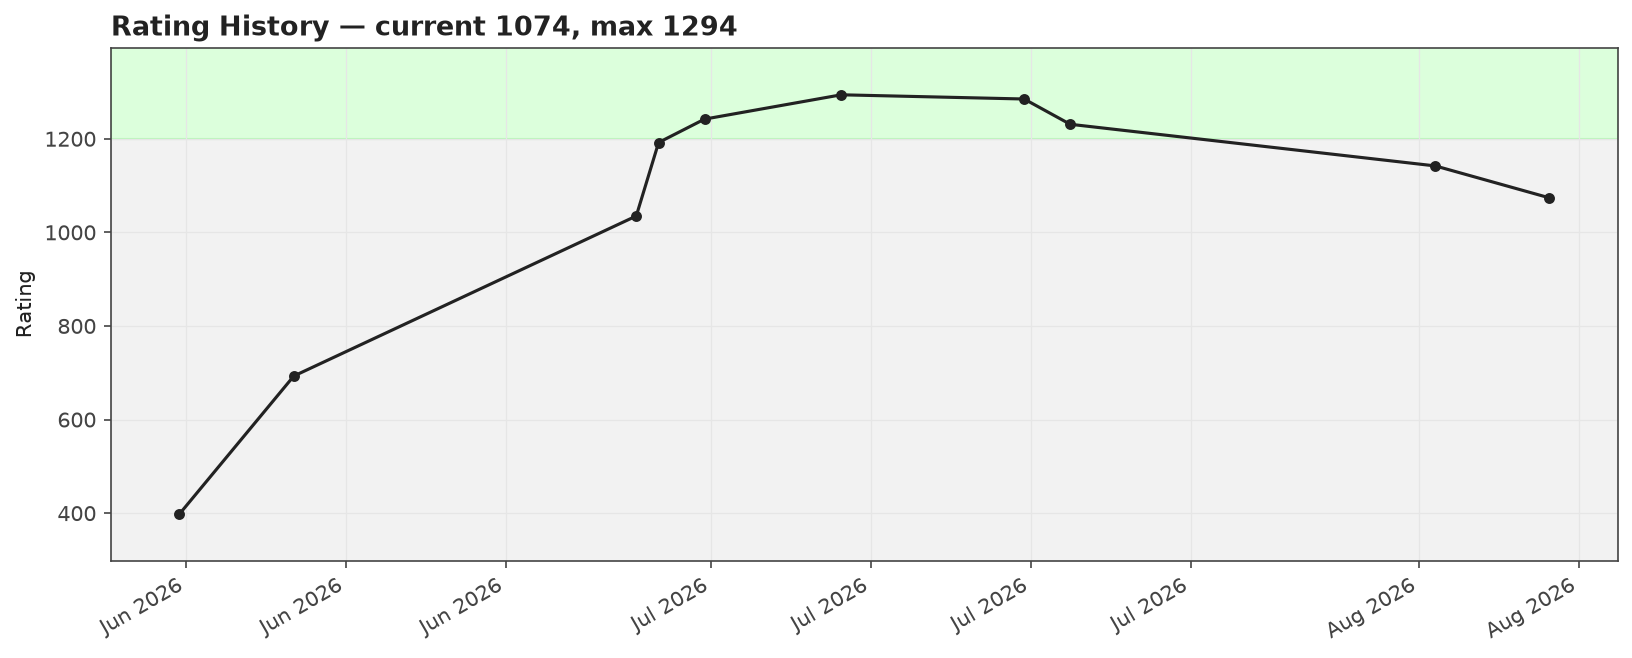
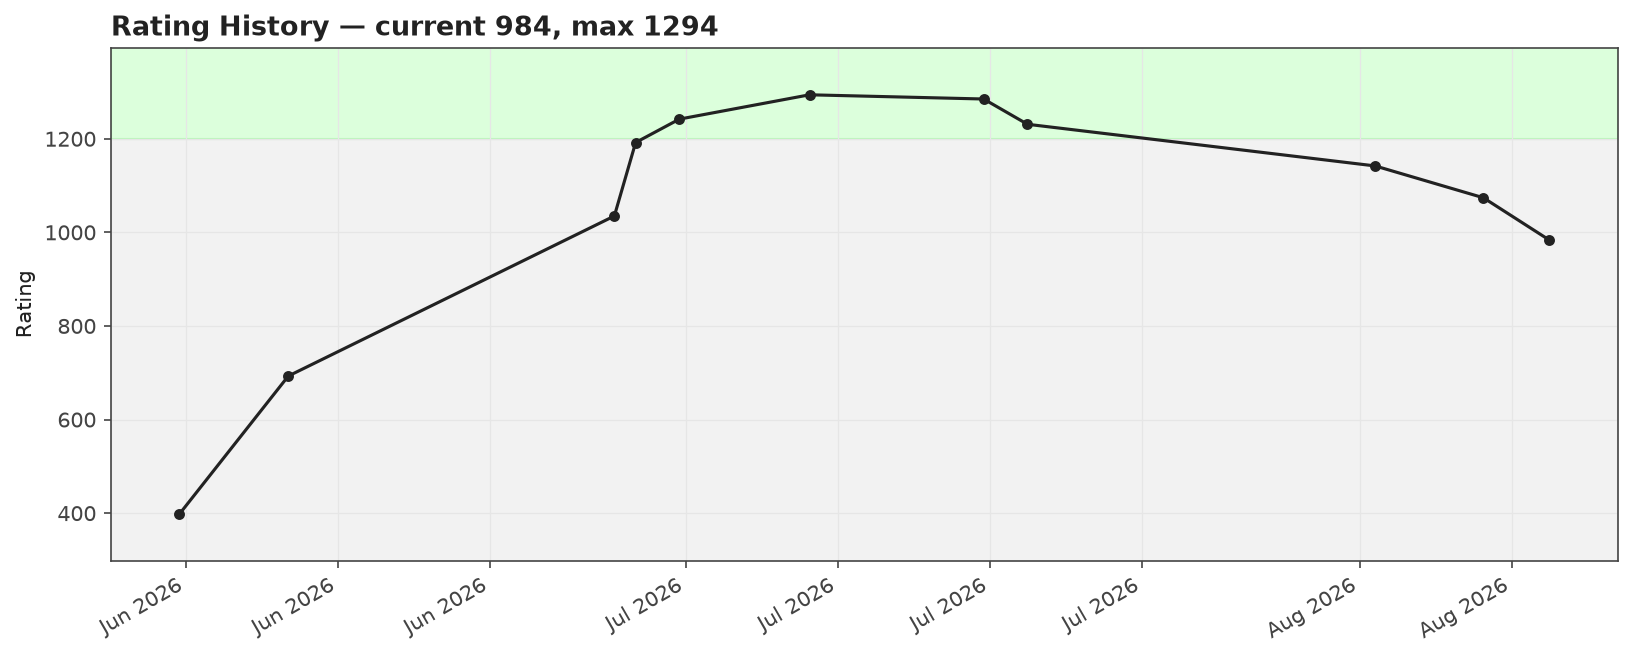
Sync: refresh analytics (rating/streak update, no new problems)

diff --git a/README.md b/README.md
@@ -5,7 +5,7 @@ Auto-generated archive of accepted Codeforces submissions for **[om_sharma_](htt
 - **Total solved:** 111
 - **With source attached:** 0 / 111
 - **Longest streak:** 15 days  |  **Current streak:** 0 days
-- **Contest rating:** 1074 (max 1294)
+- **Contest rating:** 984 (max 1294)
 
 ## 📊 Analytics
 
